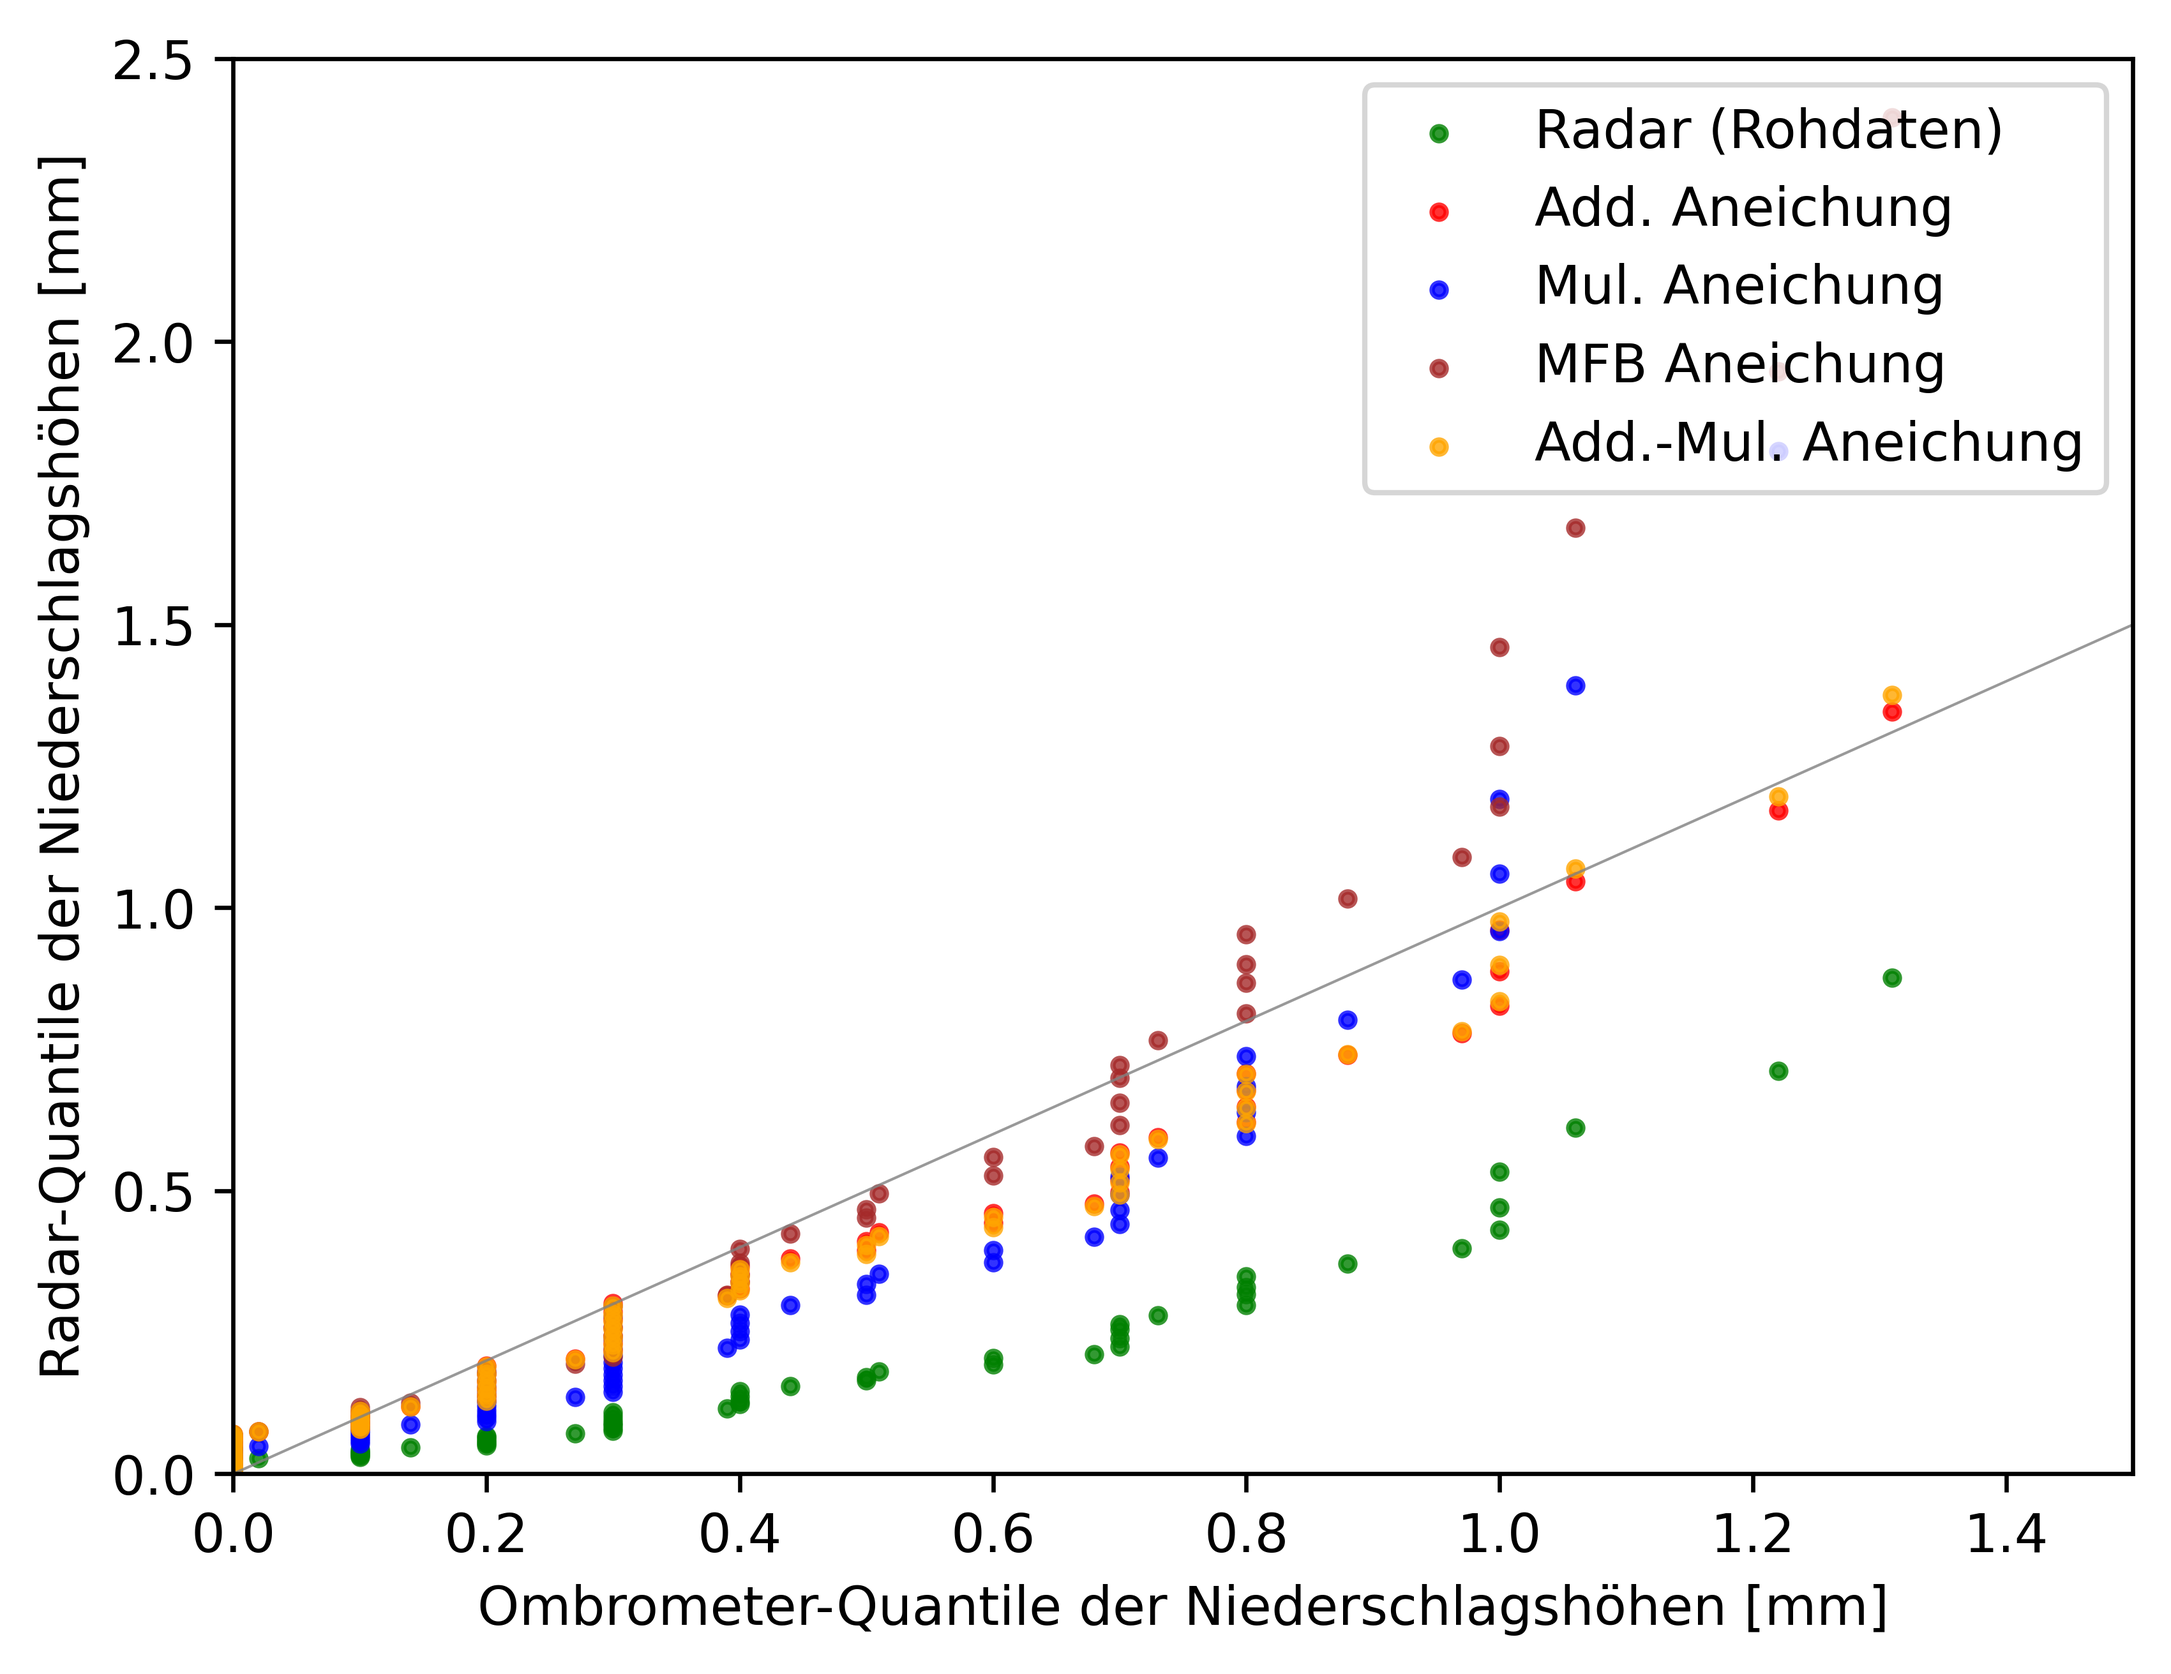
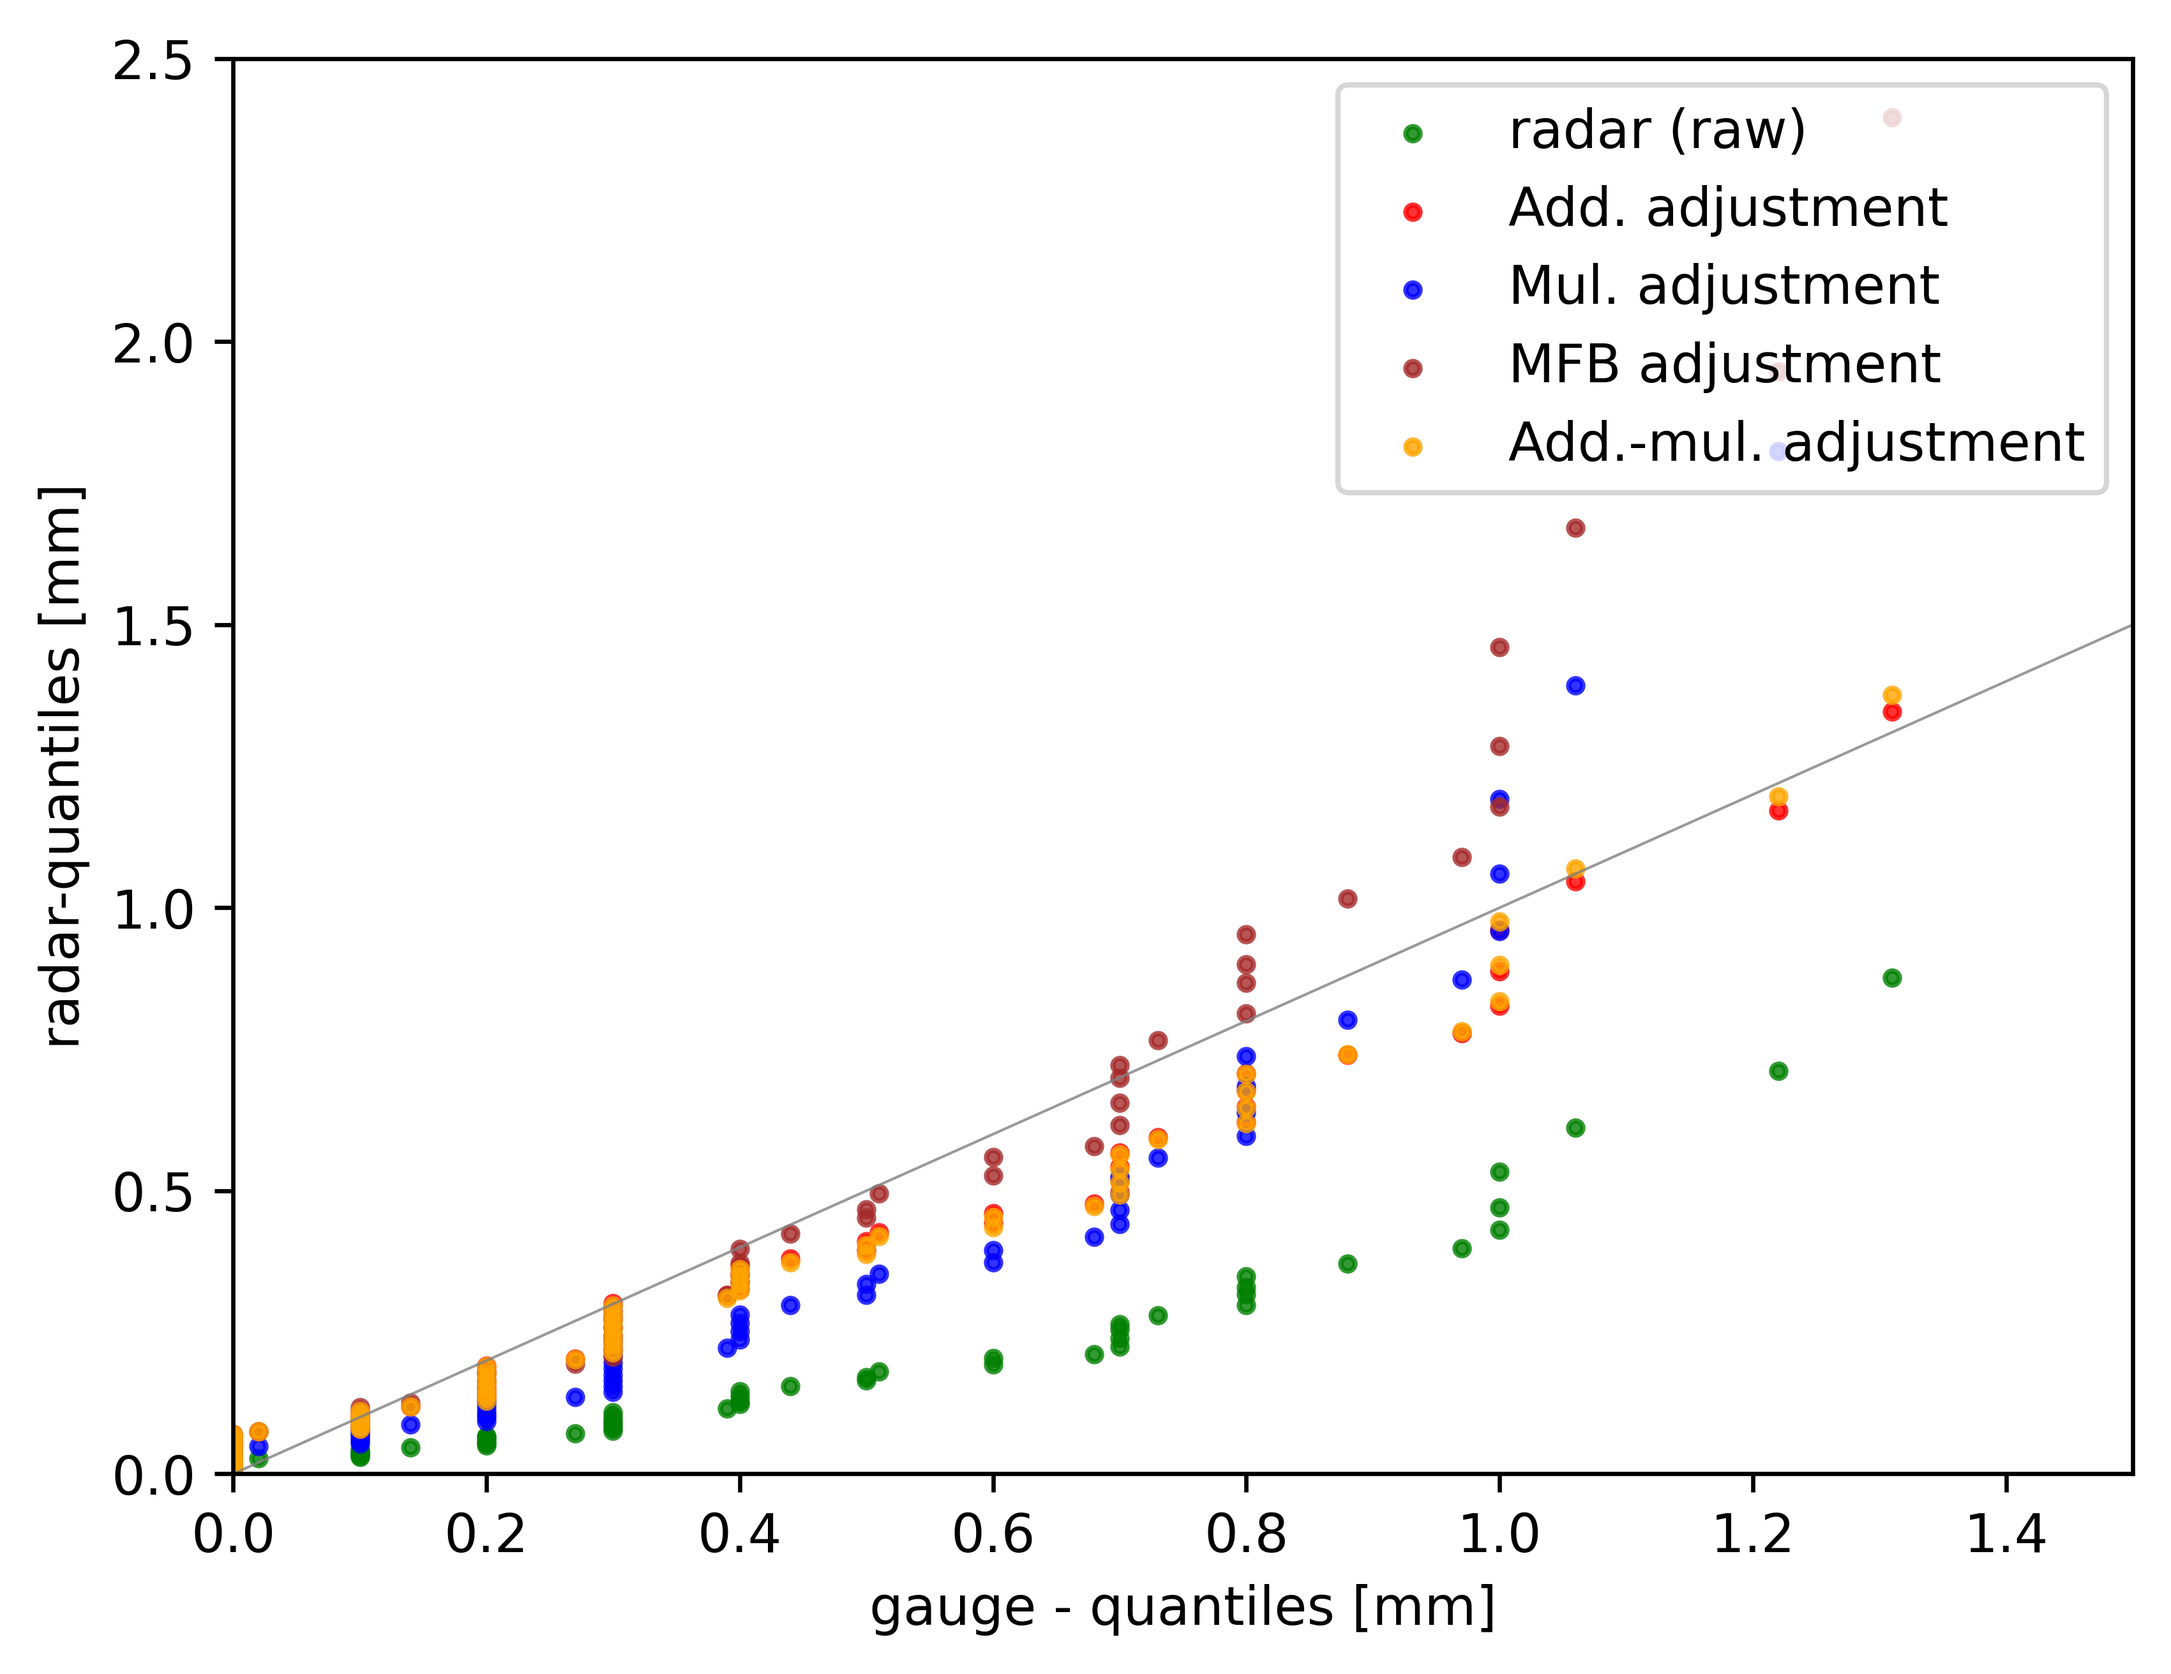
Update labels in QQ-plot.

diff --git a/code/PlotComposite.py b/code/PlotComposite.py
@@ -195,41 +195,21 @@ q_mix = quantiles_100(mix_de)
 q_gau = quantiles_100(gauge_list)
 q_rad = quantiles_100(radar_de)
 
-# Plot CDF.
-fig = pl.figure(figsize=(10, 10))
-plt.axis("equal")
-plt.hist(gaugedata["prec_mm"], 50, density=True, histtype="step", cumulative=False, label="Bodenstationen", linewidth=1.5)
-plt.hist(radar_de, 50, density=True, histtype="step", cumulative=False, label="Radar-Rohdaten", linewidth=1.5)
-plt.hist(add_de, 50, density=True, histtype="step", cumulative=False, label="Add. (var)", linewidth=1.5)
-plt.hist(mul_de, 50, density=True, histtype="step", cumulative=False, label="Mul. (var)", linewidth=1.5)
-plt.hist(mulcon_de, 50, density=True, histtype="step", cumulative=False, label="Mul. (konst)", linewidth=1.5)
-plt.hist(mix_de, 50, density=True, histtype="step", cumulative=False, label="Add.-Mul. (var)", linewidth=1.5)
-plt.legend(loc="lower right")
-plt.grid()
-if minutes == 5:
-    plt.xlim([0, 0.5])
-else:
-    plt.xlim([0, 10])
-    plt.ylim([0,10])
-plt.xlabel(f"{minutes} min - precipitation [mm]", fontsize=12)
-plt.ylabel("CDF", fontsize=12)
-plt.savefig(f"images/eval/adjustment_eval_{minutes}min", dpi=600)
-
 # Plot QQ.
 fig, ax = plt.subplots()    
 plt.plot([0,1.5], [0,1.5], linewidth=0.5, color="grey", ls="-", alpha=0.8)
-plt.scatter(q_gau, q_rad, label="Radar (Rohdaten)", s=7, marker='o', alpha=0.8, c="green")
-plt.scatter(q_gau, q_add, label="Add. Aneichung", s=7, marker='o', alpha=0.8, c="red")
-plt.scatter(q_gau, q_mul, label="Mul. Aneichung", s=7, marker='o', alpha=0.8, c="blue")
-plt.scatter(q_gau, q_mulcon, label="MFB Aneichung", s=7, marker='o', alpha=0.8, c="brown")
-plt.scatter(q_gau, q_mix, label="Add.-Mul. Aneichung", s=7, marker='o', alpha=0.8, c="orange")
+plt.scatter(q_gau, q_rad, label="radar (raw)", s=7, marker='o', alpha=0.8, c="green")
+plt.scatter(q_gau, q_add, label="Add. adjustment", s=7, marker='o', alpha=0.8, c="red")
+plt.scatter(q_gau, q_mul, label="Mul. adjustment", s=7, marker='o', alpha=0.8, c="blue")
+plt.scatter(q_gau, q_mulcon, label="MFB adjustment", s=7, marker='o', alpha=0.8, c="brown")
+plt.scatter(q_gau, q_mix, label="Add.-mul. adjustment", s=7, marker='o', alpha=0.8, c="orange")
 if minutes == 5:
     plt.xlim([0,0.3])
     plt.ylim([0,0.3])
 if minutes == 60:    
     plt.xlim([0,1.5])
     plt.ylim([0,2.5])
-plt.xlabel("Ombrometer-Quantile der Niederschlagshöhen [mm]")
-plt.ylabel("Radar-Quantile der Niederschlagshöhen [mm]")
+plt.xlabel("gauge - quantiles [mm]")
+plt.ylabel("radar-quantiles [mm]")
 plt.legend(loc="upper right")
 plt.savefig(f"images/eval/qq_{minutes}min", dpi=600, bbox_inches='tight', transparent=False)
